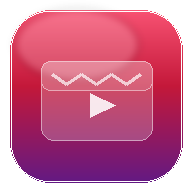
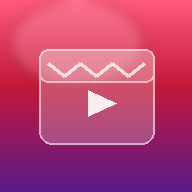
fix: icônes full-bleed opaques pour iOS (v8)
Carrés 180/192/512 sans coins transparents ni rim ; maskable conservé.

diff --git a/index.html b/index.html
@@ -479,7 +479,7 @@
   </nav>
 
   <script>
-    const APP_VERSION = 'v7';
+    const APP_VERSION = 'v8';
     const MONTHS_FR = ['janvier','février','mars','avril','mai','juin','juillet','août','septembre','octobre','novembre','décembre'];
     const DAYS_FR = ['dimanche','lundi','mardi','mercredi','jeudi','vendredi','samedi'];
 

diff --git a/sw.js b/sw.js
@@ -1,4 +1,4 @@
-const CACHE = 'sorties-cine-v7';
+const CACHE = 'sorties-cine-v8';
 const PRECACHE = [
   './icons/icon-180.png',
   './icons/icon-192.png',
